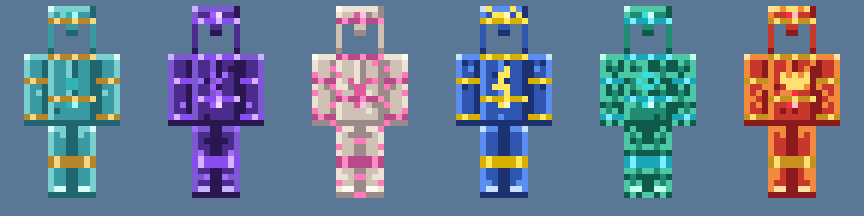
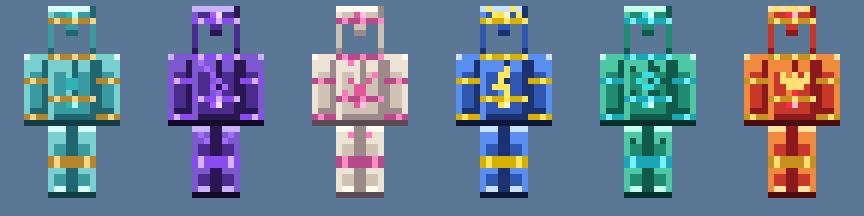
Boss arrival titles, defeat toasts and particles; cleaner worn armor
Claude-Session: https://claude.ai/code/session_0137k2dh1etCUpTsCPJ9Aw3E

diff --git a/tools/gen_armor_art.py b/tools/gen_armor_art.py
@@ -39,23 +39,21 @@ class Layer:
         return self.im.getpixel((x, y))
 
     def plate(self, x0, y0, w, h, rows=None, light=True):
-        """A bevelled metal plate filling a face (optionally only some rows)."""
-        rows = rows if rows is not None else range(h)
+        """A clean bevelled plate: light top edge, gentle top-to-bottom gradient, dark lower/right rim."""
+        rows = list(rows if rows is not None else range(h))
+        top, bot = min(rows), max(rows)
+        span = max(1, bot - top)
         for yy in rows:
+            k = (yy - top) / span
             for xx in range(w):
-                c = self.m[2]
-                n = self.rnd.random()
-                if n < 0.04:
+                c = self.m[3] if k < 0.25 else self.m[2] if k < 0.75 else self.m[1]
+                if xx == 0:
                     c = self.m[3]
-                elif n < 0.07:
-                    c = self.m[1]
-                if xx == 0 or yy == min(rows):
-                    c = self.m[3] if light else self.m[2]
-                if xx == w - 1 or yy == max(rows):
-                    c = self.m[1]
+                if yy == top:
+                    c = self.m[4] if light else self.m[3]
+                if xx == w - 1 or yy == bot:
+                    c = self.m[1] if yy != bot else self.m[0]
                 self.px(x0 + xx, y0 + yy, c)
-        # bevel corner highlight
-        self.px(x0, y0 + min(rows), self.m[4])
 
     def band(self, x0, y, w, rivets=True):
         for xx in range(w):
@@ -76,16 +74,14 @@ class Layer:
                 if self.get(x, y)[3] == 0:
                     continue
                 t = self.tier
-                if t == "leviathan" and (2 * xx + yy) % 4 == 0:
-                    self.px(x, y, self.m[1])
-                elif t == "leviathan" and (2 * xx + yy) % 4 == 1:
-                    self.px(x, y, self.m[3])
-                elif t == "krakenbone" and (xx + 3 * yy) % 9 == 0:
-                    self.px(x, y, self.glow[0])
-                elif t == "abyssal" and (xx * 5 + yy * 3) % 17 == 0:
-                    self.px(x, y, self.glow[0])
-                elif t == "sovereign" and (xx + yy) % 8 == 0:
-                    self.px(x, y, self.m[3])
+                if xx in (0, w - 1) or yy in (rows[0], rows[-1]):
+                    continue
+                if t == "leviathan" and yy % 2 == 0 and (xx + yy // 2) % 2 == 0:
+                    self.px(x, y, self.m[1])                       # overlapping scale rows
+                elif t == "krakenbone" and (xx * 3 + yy * 5) % 11 == 0:
+                    self.px(x, y, self.glow[0])                    # suckers
+                elif t == "abyssal" and (xx - yy) % 7 == 0 and yy % 3 != 0:
+                    self.px(x, y, self.glow[0])                    # glowing seams
 
 
 def faces(x, y, w, h, d):
@@ -101,7 +97,7 @@ def helmet(L):
     f = faces(0, 0, 8, 8, 8)
     for name in ("top", "right", "left", "back"):
         L.plate(*f[name])
-        L.motif(*f[name])
+    L.motif(*f["top"])
     x0, y0, w, h = f["front"]
     # brow and cheek guards, open face
     L.plate(x0, y0, w, h, rows=range(0, 3))
@@ -129,7 +125,8 @@ def chest(L):
     f = faces(16, 16, 8, 12, 4)
     for name in ("top", "bottom", "right", "left", "back", "front"):
         L.plate(*f[name])
-        L.motif(*f[name])
+    L.motif(*f["front"])
+    L.motif(*f["back"])
     x0, y0, w, h = f["front"]
     L.band(x0, y0, w)                     # collar
     L.band(x0, y0 + 10, w)                # belt
@@ -157,7 +154,6 @@ def chest(L):
     a = faces(40, 16, 4, 12, 4)
     for name in ("top", "bottom", "right", "front", "left", "back"):
         L.plate(*a[name])
-        L.motif(*a[name])
     for name in ("right", "front", "left", "back"):
         ax, ay, aw, ah = a[name]
         L.band(ax, ay + 4, aw)            # pauldron edge
@@ -171,7 +167,6 @@ def boots(L):
     for name in ("right", "front", "left", "back"):
         x0, y0, w, h = f[name]
         L.plate(x0, y0, w, h, rows=range(6, 12))
-        L.motif(x0, y0, w, h, rows=range(6, 12))
         L.band(x0, y0 + 6, w)
     x0, y0, w, h = f["bottom"]
     L.plate(x0, y0, w, h)
@@ -191,7 +186,8 @@ def leggings(L):
     for name in ("right", "front", "left", "back"):
         x0, y0, w, h = g[name]
         L.plate(x0, y0, w, h, rows=range(0, 10))
-        L.motif(x0, y0, w, h, rows=range(0, 10))
+        if name in ("front", "back"):
+            L.motif(x0, y0, w, h, rows=range(0, 5))
         L.band(x0, y0 + 5, w)             # knee guard
     for name in ("top",):
         L.plate(*g[name])

diff --git a/src/main/java/com/piratecrew/CommonEvents.java b/src/main/java/com/piratecrew/CommonEvents.java
@@ -153,6 +153,20 @@ public class CommonEvents {
     @SubscribeEvent
     public static void entityJoin(net.minecraftforge.event.entity.EntityJoinLevelEvent event) {
         com.piratecrew.compat.ValkyrienPiratesCompat.onJoin(event);
+        // A boss arriving (not one reloaded with its chunk) is announced with a title to everyone near.
+        if (!event.loadedFromDisk() && event.getLevel() instanceof ServerLevel level
+                && event.getEntity() instanceof com.piratecrew.entity.boss.BountyBoss boss
+                && event.getEntity() instanceof net.minecraft.world.entity.LivingEntity living) {
+            level.getServer().execute(() -> {
+                var name = living.getDisplayName().copy().withStyle(s -> s.withColor(boss.ribbonColor()).withBold(true));
+                var sub = net.minecraft.network.chat.Component.literal(boss.epithet()).withStyle(net.minecraft.ChatFormatting.GRAY, net.minecraft.ChatFormatting.ITALIC);
+                for (ServerPlayer sp : level.getPlayers(p -> p.distanceToSqr(living) < 80 * 80)) {
+                    sp.connection.send(new net.minecraft.network.protocol.game.ClientboundSetTitlesAnimationPacket(10, 60, 20));
+                    sp.connection.send(new net.minecraft.network.protocol.game.ClientboundSetSubtitleTextPacket(sub));
+                    sp.connection.send(new net.minecraft.network.protocol.game.ClientboundSetTitleTextPacket(name));
+                }
+            });
+        }
     }
 
     @SubscribeEvent
@@ -303,8 +317,15 @@ public class CommonEvents {
                 : victim instanceof com.piratecrew.entity.boss.LeviathanEntity ? com.piratecrew.goals.Goal.LEVIATHAN
                 : victim instanceof com.piratecrew.entity.boss.FleetAdmiralEntity ? com.piratecrew.goals.Goal.VANE : null;
         if (boss != null) {
+            ServerLevel sl = (ServerLevel) victim.level();
+            sl.sendParticles(net.minecraft.core.particles.ParticleTypes.TOTEM_OF_UNDYING, victim.getX(), victim.getY() + victim.getBbHeight() / 2, victim.getZ(),
+                    120, victim.getBbWidth(), victim.getBbHeight() / 2, victim.getBbWidth(), 0.6);
+            sl.sendParticles(net.minecraft.core.particles.ParticleTypes.EXPLOSION_EMITTER, victim.getX(), victim.getY() + 1, victim.getZ(), 1, 0, 0, 0, 0);
+            int color = ((com.piratecrew.entity.boss.BountyBoss) victim).ribbonColor();
             // everyone who fought nearby shares the victory
-            for (ServerPlayer sp : ((ServerLevel) victim.level()).getPlayers(p -> p.distanceToSqr(victim) < 64 * 64)) {
+            for (ServerPlayer sp : sl.getPlayers(p -> p.distanceToSqr(victim) < 64 * 64)) {
+                com.piratecrew.network.ModNetwork.sendTo(sp, new com.piratecrew.network.ToastPacket(boss.icon.get(),
+                        "Boss Defeated!", victim.getDisplayName().getString().replace("\u2620 ", ""), color));
                 com.piratecrew.goals.Goals.grant(sp, boss);
             }
         }

diff --git a/src/main/java/com/piratecrew/entity/boss/BountyBoss.java b/src/main/java/com/piratecrew/entity/boss/BountyBoss.java
@@ -1,6 +1,16 @@
 package com.piratecrew.entity.boss;
 
-/** A Sundered Sea boss: killing it raises the killer's bounty by this much (crew members only). */
+/** A Sundered Sea boss: worth bounty to whoever fells it, and introduced with a title when it appears. */
 public interface BountyBoss {
     int bountyValue();
+
+    /** The boss's epithet, shown under its name when it arrives. */
+    default String epithet() {
+        return "";
+    }
+
+    /** Ribbon colour for titles and toasts. */
+    default int ribbonColor() {
+        return 0xE04040;
+    }
 }

diff --git a/src/main/java/com/piratecrew/entity/boss/TempestAdmiralEntity.java b/src/main/java/com/piratecrew/entity/boss/TempestAdmiralEntity.java
@@ -49,6 +49,8 @@ public class TempestAdmiralEntity extends MarineBossEntity {
     @Override protected double bossArmor() { return 8; }
     @Override protected double bossToughness() { return 2; }
     @Override protected float bossScale() { return 1.2F; }
+    @Override public String epithet() { return "Mistress of Storms"; }
+    @Override public int ribbonColor() { return 0xD070FF; }
     @Override public int bountyValue() { return 400; }
 
     @Override

diff --git a/src/main/java/com/piratecrew/entity/boss/CommodoreEntity.java b/src/main/java/com/piratecrew/entity/boss/CommodoreEntity.java
@@ -44,6 +44,8 @@ public class CommodoreEntity extends MarineBossEntity {
     @Override protected double bossArmor() { return 6; }
     @Override protected double bossToughness() { return 0; }
     @Override protected float bossScale() { return 1.15F; }
+    @Override public String epithet() { return "Hound of the Order"; }
+    @Override public int ribbonColor() { return 0x5AC8FF; }
     @Override public int bountyValue() { return 150; }
 
     @Override

diff --git a/src/main/java/com/piratecrew/entity/boss/FleetAdmiralEntity.java b/src/main/java/com/piratecrew/entity/boss/FleetAdmiralEntity.java
@@ -56,6 +56,8 @@ public class FleetAdmiralEntity extends MarineBossEntity {
     @Override protected double bossArmor() { return 12; }
     @Override protected double bossToughness() { return 6; }
     @Override protected float bossScale() { return 1.35F; }
+    @Override public String epithet() { return "The Iron Tide"; }
+    @Override public int ribbonColor() { return 0xE04040; }
     @Override public int bountyValue() { return 1500; }
 
     @Override

diff --git a/src/main/java/com/piratecrew/entity/boss/LeviathanEntity.java b/src/main/java/com/piratecrew/entity/boss/LeviathanEntity.java
@@ -60,6 +60,8 @@ public class LeviathanEntity extends Guardian implements BountyBoss {
                 .add(Attributes.FOLLOW_RANGE, 48);
     }
 
+    @Override public String epithet() { return "The Ancient Deep"; }
+    @Override public int ribbonColor() { return 0x3FD6A0; }
     @Override
     public int bountyValue() {
         return 800;

diff --git a/src/main/java/com/piratecrew/entity/boss/KrakenEntity.java b/src/main/java/com/piratecrew/entity/boss/KrakenEntity.java
@@ -73,6 +73,8 @@ public class KrakenEntity extends Monster implements BountyBoss {
                 .add(Attributes.FOLLOW_RANGE, 48);
     }
 
+    @Override public String epithet() { return "Terror of the Deep"; }
+    @Override public int ribbonColor() { return 0xC04A8A; }
     @Override
     public int bountyValue() {
         return 250;
